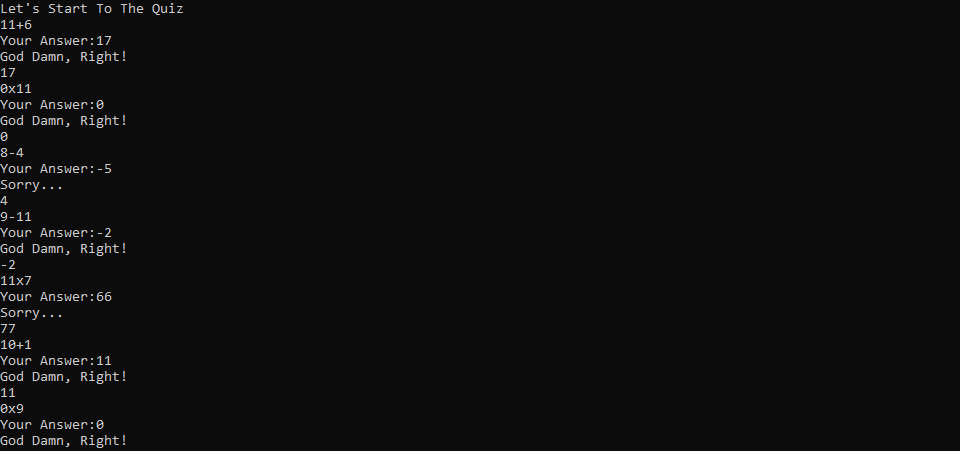
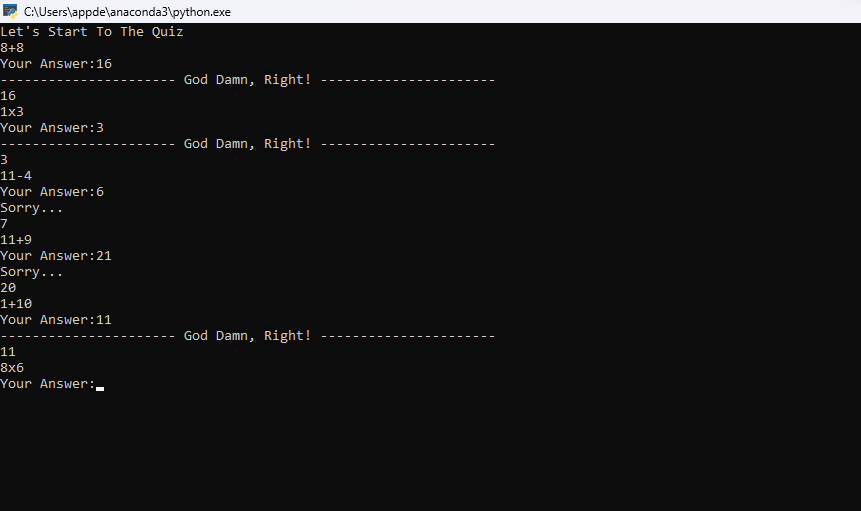
Changed work system

diff --git a/quiz.py b/quiz.py
@@ -1,5 +1,6 @@
 import operator
 import random
+import emoji
 answer = 0
 question = "Let's Start To The Quiz"
 
@@ -29,7 +30,7 @@ while True:
         inanswer = input("Your Answer:")
         try:
             if float(inanswer) == float(answer):
-                print("God Damn, Right!")
+                print("---------------------- God Damn, Right! ----------------------")
                 print(str(answer))
                 question = createQuestion()
             else:
